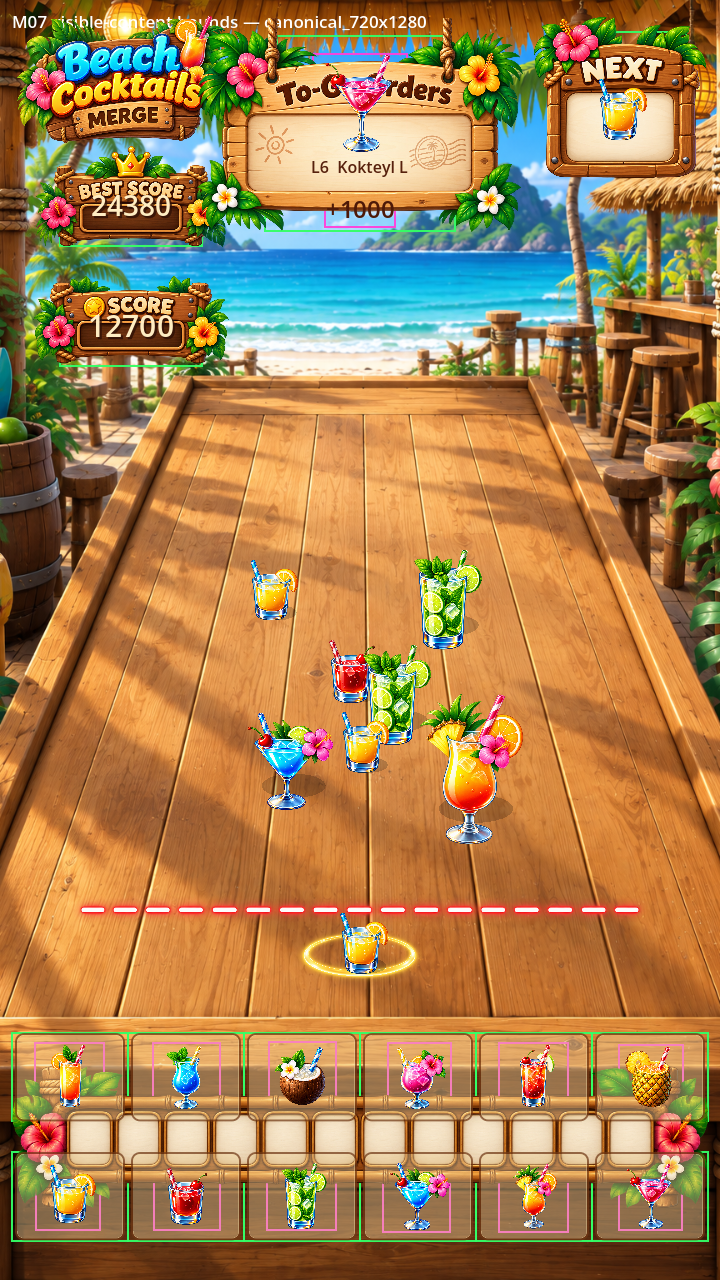
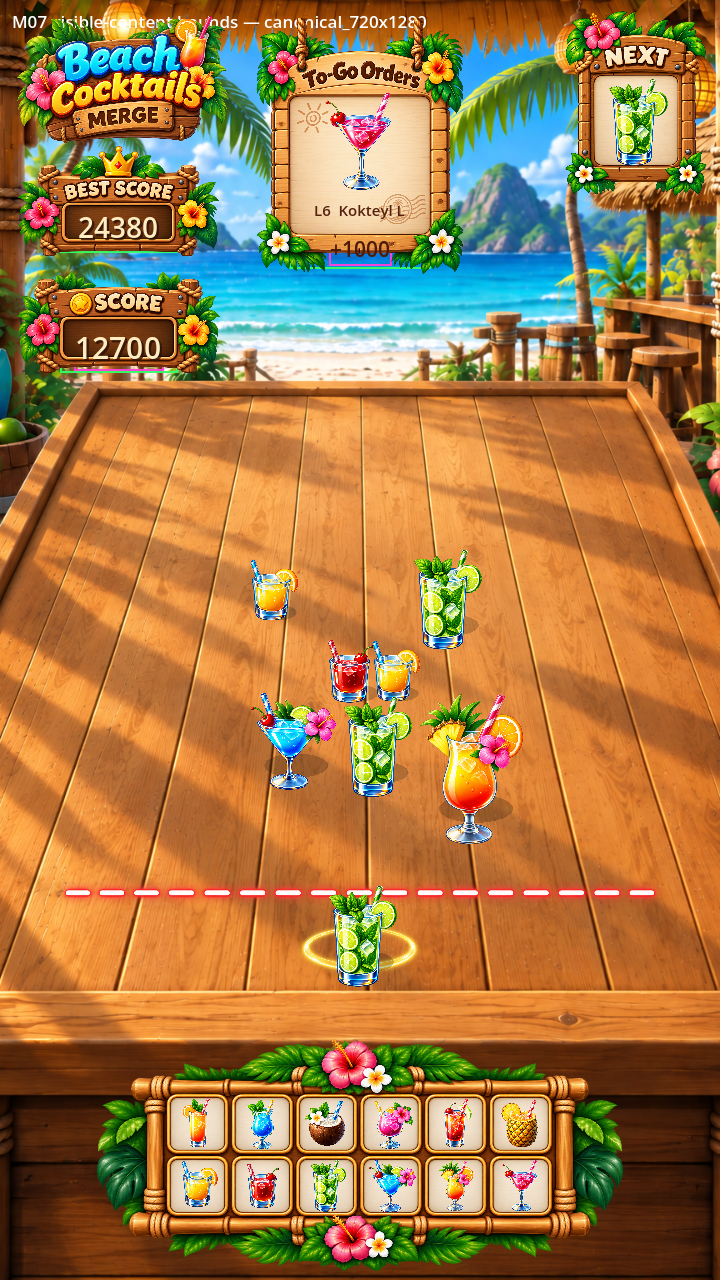
M07-R03 rebuild HUD for canonical artwork

diff --git a/coordination/sessions/BCM-M07-R03/CODEX_LOG_V01.md b/coordination/sessions/BCM-M07-R03/CODEX_LOG_V01.md
@@ -1,0 +1,100 @@
+# BCM-M07-R03 — Codex Execution Log V01
+
+Status: AWAITING_AUDIT. This is builder evidence only; no independent acceptance verdict is assigned.
+
+## Authority and scope
+
+- Master prompt: `coordination/sessions/BCM-M04-M06-M07-R04/CHATGPT_EXECUTION_PROMPT_V02.md`.
+- Locked criteria read before editing: `coordination/sessions/BCM-M07-R03/CHATGPT_AUDIT_CRITERIA_V01.md`.
+- Start HEAD: `d204843` (the separately pushed M06-R04 commit).
+- Scope: rebuild dynamic M07 HUD around the corrected owner PNG artwork.
+- `TASKS.md`, prompts, criteria, policy files and all canonical PNG bytes were not edited.
+- No `guide_line` was added; no M08+ work was started.
+
+## HUD implementation
+
+Production changes are in `scripts/game_manager.gd`:
+
+- Best Score and Score use the exact landscape native ratios (`1671x941` and `1672x941`) and add only runtime numbers; baked crown/heading and star/heading remain in their PNGs.
+- To-Go Orders uses the exact portrait ratio `1132x1389`; runtime adds only the current mapped target sprite, `Lx + name`, and live reward.
+- NEXT uses the exact portrait ratio `1103x1426`; exactly one panel exists and runtime adds only the true next mapped cocktail.
+- The progression artwork remains one `2170x725` aspect-preserving Sprite2D. Runtime creates twelve cocktail Sprite2D icons only; all runtime `Panel`/`StyleBoxFlat` cell frames were removed.
+- Progression mapping is top L07-L12 and bottom L01-L06. All three HUD consumers continue to use the shared M05 `Drink.texture_for_level()` mapping; no duplicate L01-L12 path table was added.
+- Launch halo and danger line remain world-space and unchanged relative to M06-R04 (`death_line_y` and `launch_y` from source y=1080 and y=1136).
+- No permanent prototype instruction hint or legacy duplicate HUD labels are present.
+
+## Independent asset measurements and final layout
+
+`docs/evidence/m07/independent_inner_content_layout_v02.json` records independent content-window measurements. Native ratios and production display rectangles at 720 px width are:
+
+| Element | Native size / ratio | Production display rectangle |
+|---|---:|---:|
+| Best Score | 1671x941 / 1.775 | x=16, y=145, w=205, h=115.443 |
+| Score | 1672x941 / 1.777 | x=16, y=265, w=205, h=115.443 |
+| To-Go Orders | 1132x1389 / 0.815 | centered, x=255, y=18, w=210, h=257.677 |
+| NEXT | 1103x1426 / 0.774 | x=563, y=10, w=145, h=187.462 |
+| Progression | 2170x725 / 2.993 | x=12, bottom margin=8, w=696, h=232.535 |
+
+The progression slot interiors were measured directly from the new PNG using alpha/cream interior runs:
+
+- source y ranges: top `[187,342]`, bottom `[380,536]`;
+- source x ranges: `[499,658]`, `[701,860]`, `[902,1060]`, `[1102,1261]`, `[1303,1462]`, `[1506,1666]`;
+- source centers used by production: x `[578.5,780.5,981.0,1181.5,1382.5,1586.0]`, y `[264.5,458.0]`.
+
+The exact source-derived slot rectangles and panel content boxes are retained in the independent JSON dataset. Runtime alpha bounds for all twelve icons were within those slot interiors and had no material neighbor overlap.
+
+## Commands and exact result markers
+
+```text
+godot_console.exe --path . --display-driver windows --rendering-driver opengl3 --rendering-method gl_compatibility --script res://tests/m07_hud_composition_probe.gd
+M07_LAYOUT_DATASET PASS schema=BCM-M07-R03-independent-visible-content-layout-V01 overflow_tolerance=4.0 overlap_tolerance=2.0
+M07_PROBE PASS: canonical progression has no runtime Panel/StyleBox cell frames
+M07_PROBE PASS: canonical exactly one active To-Go panel/target/reward
+M07_PROBE PASS: canonical exactly one Next panel shows true next texture
+M07_PROBE PASS: canonical progression is intentional 2x6 order top L07-L12 / bottom L01-L06 with no L13
+M07_PROBE PASS: canonical danger/launch remain at independent M06 coordinates
+M07_PROBE PASS: canonical no guide-line or permanent prototype hint
+M07_PROBE PASS: canonical cocktail HUD consumers use shared M05 level mapping
+M07_PROBE PASS: canonical rapid launch keeps current held sprite and Next synchronized
+M07_HUD_STATE label=canonical score=12650 best=24380 target=L6 reward=1000 next=L3 progression_slots=12 death_y=900.000 launch_y=946.667
+M07_HUD_STATE label=taller_720x1440 score=12650 best=24380 target=L6 reward=1000 next=L1 progression_slots=12 death_y=1012.500 launch_y=1065.000
+M07_HUD_STATE label=shorter_wider_800x1280 score=12650 best=24380 target=L6 reward=1000 next=L2 progression_slots=12 death_y=900.000 launch_y=946.667
+M07_PROBE_RESULT=PASS
+M07_R03_GODOT_EXIT_CODE=0
+python tools/m07_evidence_sheet.py
+M07_SHEET_RESULT=PASS
+M07_R03_EVIDENCE_SHEET_EXIT_CODE=0
+git diff --check
+M07_R03_DIFF_CHECK_EXIT_CODE=0
+```
+
+The probe also verified dynamic score/Best Score/To-Go/NEXT updates, To-Go target L6 reward `+1000`, later dynamic target L7 reward `+1800`, on-screen panel bounds, visible text/alpha bounds, launch halo centering, canonical danger texture, and all 12 progression icons for all three required viewport sizes. The evidence-only overlays do not add production nodes or frames.
+
+## Retained evidence
+
+For each of `canonical_720x1280`, `taller_720x1440`, and `shorter_wider_800x1280`, the following final files were regenerated from the production scene:
+
+- clean production screenshot: `<case>.png`;
+- HUD content-box overlay: `<case>_hud_inner_boxes.png`;
+- actual visible text/alpha bounds overlay: `<case>_visible_bounds.png`;
+- progression close-up: `<case>_progression_closeup.png`;
+- layout close-up: `<case>_layout_closeup.png`;
+- visible-bounds close-up: `<case>_visible_bounds_closeup.png`;
+- M07 owner/runtime comparison sheet: `<case>_master_side_by_side.png`.
+
+`tools/m07_evidence_sheet.py` reported PASS for all three close-up sets. The screenshot files were created with dimensions `720x1280`, `720x1440`, and `800x1280` respectively.
+
+## Files changed in this bounded phase
+
+- `scripts/game_manager.gd`
+- `tests/m07_hud_composition_probe.gd`
+- `tests/m07_hud_inner_boxes.gd`
+- `docs/evidence/m07/independent_inner_content_layout_v02.json`
+- the regenerated final M07 screenshots, overlays, close-ups and comparison sheets under `docs/evidence/m07/`
+- `coordination/sessions/BCM-M07-R03/CODEX_LOG_V01.md`
+
+M01-M06 source behavior was not retuned. The full M01-M07 regression suite, Godot import/startup checks and final equality proof run after this bounded M07 commit.
+
+## Handoff
+
+Historical logs were not rewritten. ChatGPT-owned tracker/prompt/audit/criteria/policy files remain untouched. This log does not self-audit, assign `AUDITED_PASS`, or update `TASKS.md`.
